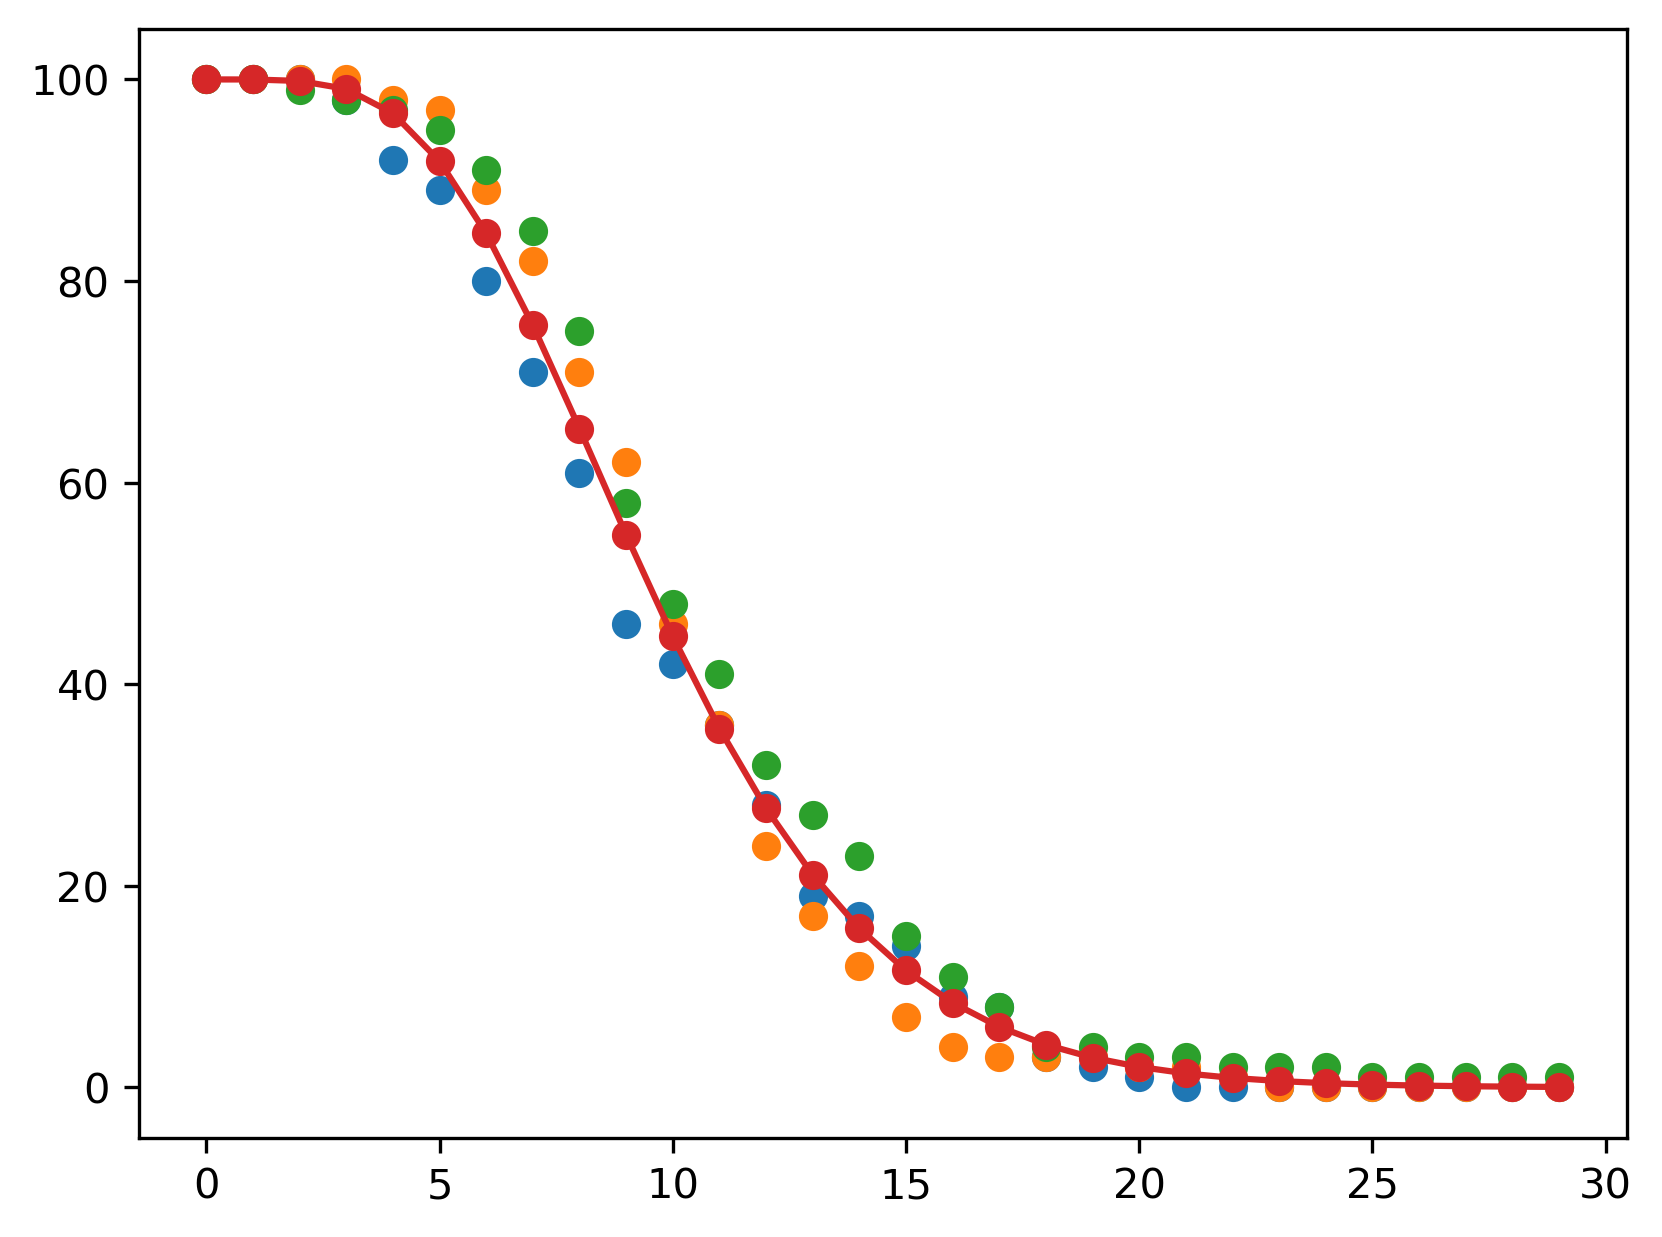
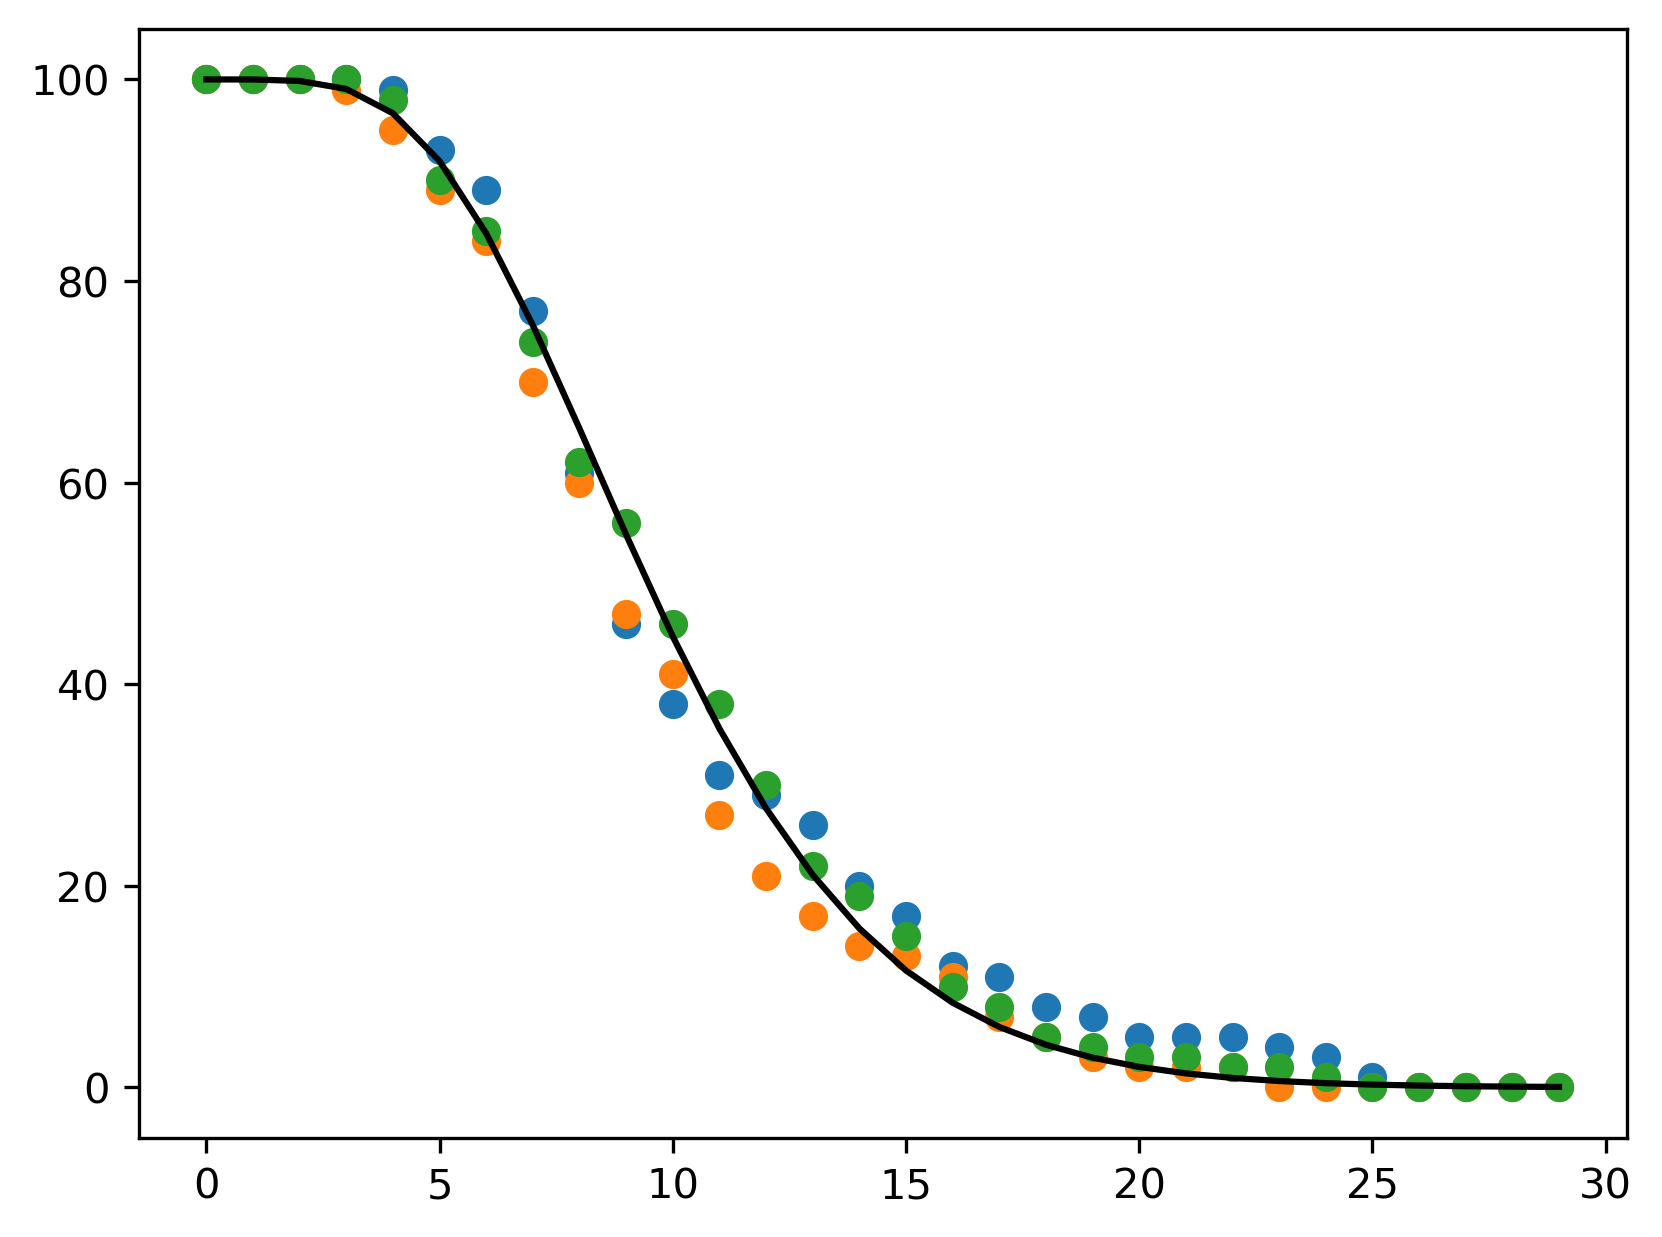
minor

Changed region(s): [[0.1227, 0.0307, 0.9513, 0.8909]]

diff --git a/docs/index.html b/docs/index.html
@@ -240,11 +240,18 @@ class="sourceCode json"><code class="sourceCode json"><span id="cb2-1"><a href="
 <span id="cb2-24"><a href="#cb2-24" aria-hidden="true" tabindex="-1"></a>        <span class="fu">}</span></span>
 <span id="cb2-25"><a href="#cb2-25" aria-hidden="true" tabindex="-1"></a>    <span class="ot">]</span></span>
 <span id="cb2-26"><a href="#cb2-26" aria-hidden="true" tabindex="-1"></a><span class="fu">}</span></span></code></pre></div>
-<p><img src="figures/ex1a.png"
-title="Deterministic - Erlang-distributed"
-alt="Erlang-distributed adult female mosquito lifetime" /> <img
-src="figures/ex1b.png" title="Stochastic - Erlang-distributed"
-alt="Erlang-distributed adult female mosquito lifetime" /></p>
+<figure>
+<img src="figures/ex1a.png" title="Deterministic - Erlang-distributed"
+alt="Erlang-distributed adult female mosquito lifetime" />
+<figcaption aria-hidden="true">Erlang-distributed adult female mosquito
+lifetime</figcaption>
+</figure>
+<figure>
+<img src="figures/ex1b.png" title="Stochastic - Erlang-distributed"
+alt="Three realisations of stochastic mortality in a population of 100" />
+<figcaption aria-hidden="true">Three realisations of stochastic
+mortality in a population of 100</figcaption>
+</figure>
 <h1 id="sandbox">SandBox</h1>
 <div class="myGroup">
 <textarea id="model" class="myJSON">

diff --git a/docs/plot.py b/docs/plot.py
@@ -4,7 +4,7 @@ import population as pop
 
 ex1a = pop.model("examples/ex1a.dylib")
 out1a = ex1a.sim(30,[],[],[100.0])
-plt.plot(out1a['ret'][0,:,0],'o-')
+plt.plot(out1a['ret'][0,:,0],'o-',c="black")
 plt.savefig("figures/ex1a.png",bbox_inches="tight",dpi=300)
 plt.close()
 
@@ -14,6 +14,6 @@ for n in range(3):
     out1b = ex1b.sim(30,[],[],[100.0])
     plt.plot(out1b['ret'][0,:,0],'o')
 out1a = ex1a.sim(30,[],[],[100.0])
-plt.plot(out1a['ret'][0,:,0],'o-')
+plt.plot(out1a['ret'][0,:,0],'-',c="black")
 plt.savefig("figures/ex1b.png",bbox_inches="tight",dpi=300)
 plt.close()

diff --git a/docs/tutorial.md b/docs/tutorial.md
@@ -93,7 +93,8 @@ To define the algorithm and its parameters for simulation. For now, only <code>P
 ```
 
 ![Erlang-distributed adult female mosquito lifetime](figures/ex1a.png "Deterministic - Erlang-distributed")
-![Erlang-distributed adult female mosquito lifetime](figures/ex1b.png "Stochastic - Erlang-distributed")
+
+![Three realisations of stochastic mortality in a population of 100](figures/ex1b.png "Stochastic - Erlang-distributed")
 
 # SandBox
 
